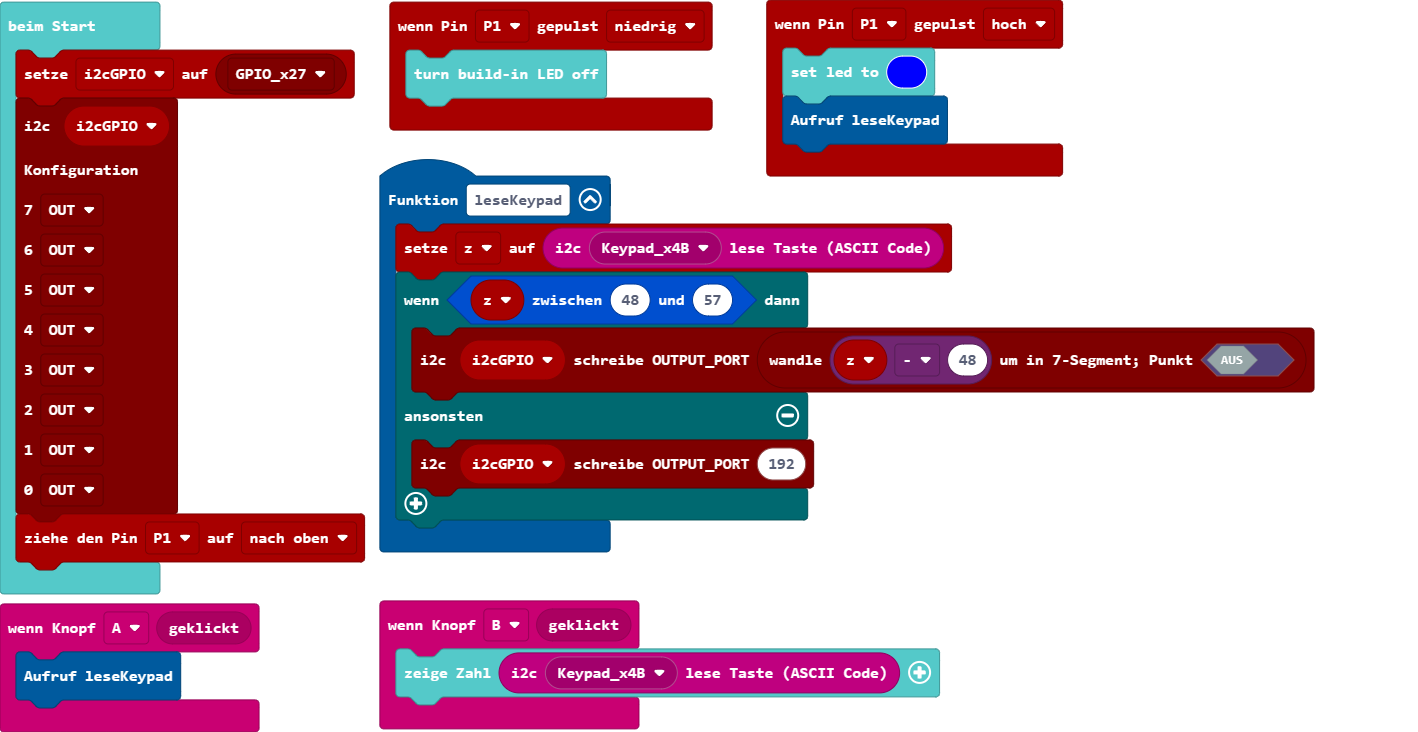
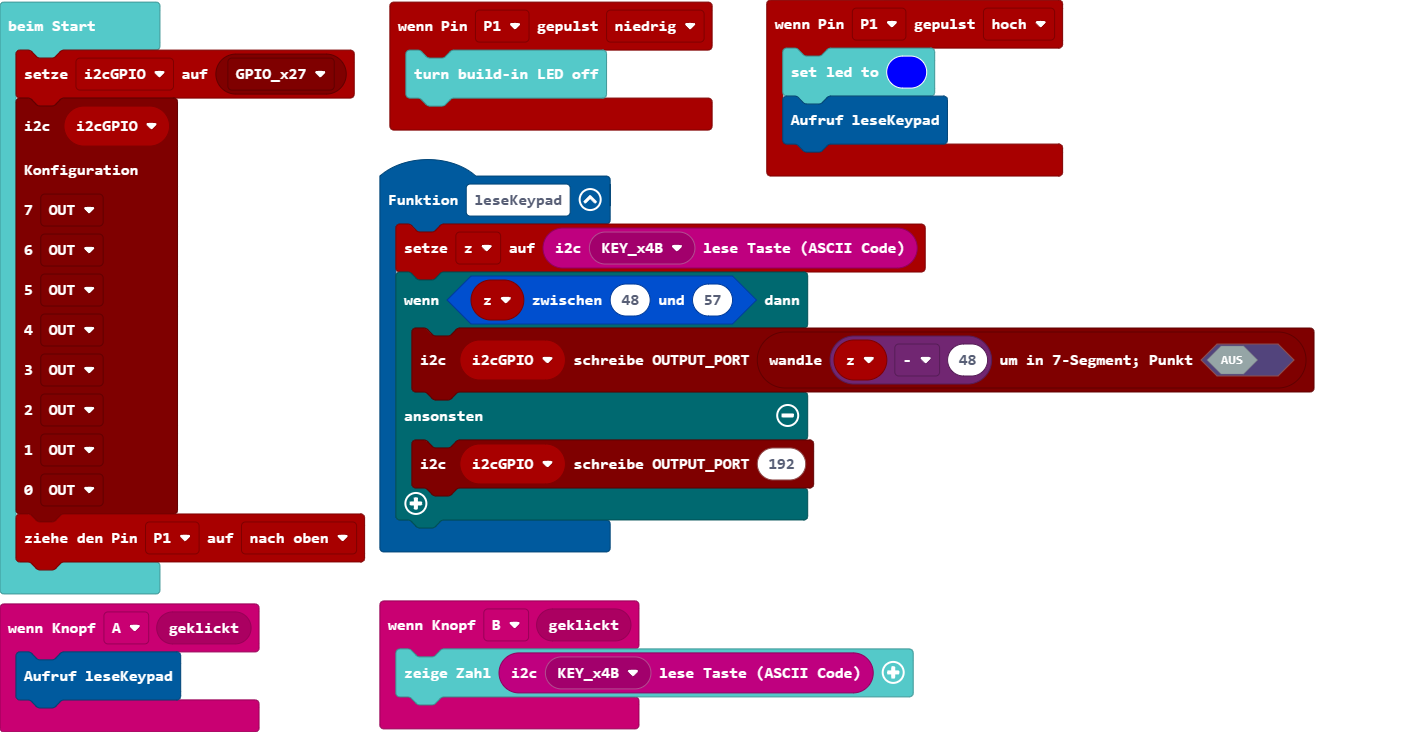
Aktualisiere pxt.json, main.blocks, main.ts

Changed region(s): [[0.4034, 0.8716, 0.6827, 0.9617], [0.4344, 0.3005, 0.6827, 0.3907]]

diff --git a/main.ts b/main.ts
@@ -2,7 +2,7 @@ input.onButtonEvent(Button.A, input.buttonEventClick(), function () {
     leseKeypad()
 })
 function leseKeypad () {
-    z = qwiickeypad.getButton(qwiickeypad.qwiickeypad_eADDR(qwiickeypad.eADDR.Keypad_x4B))
+    z = qwiickeypad.getButton(qwiickeypad.qwiickeypad_eADDR(qwiickeypad.eADDR.KEY_x4B))
     if (bit.between(z, 48, 57)) {
         qwiicgpio.writeOUTPUT_PORT(i2cGPIO, qwiicgpio.siebenSegment(z - 48, false))
     } else {
@@ -17,7 +17,7 @@ pins.onPulsed(DigitalPin.P1, PulseValue.High, function () {
     leseKeypad()
 })
 input.onButtonEvent(Button.B, input.buttonEventClick(), function () {
-    basic.showNumber(qwiickeypad.getButton(qwiickeypad.qwiickeypad_eADDR(qwiickeypad.eADDR.Keypad_x4B)))
+    basic.showNumber(qwiickeypad.getButton(qwiickeypad.qwiickeypad_eADDR(qwiickeypad.eADDR.KEY_x4B)))
 })
 let z = 0
 let i2cGPIO = 0
